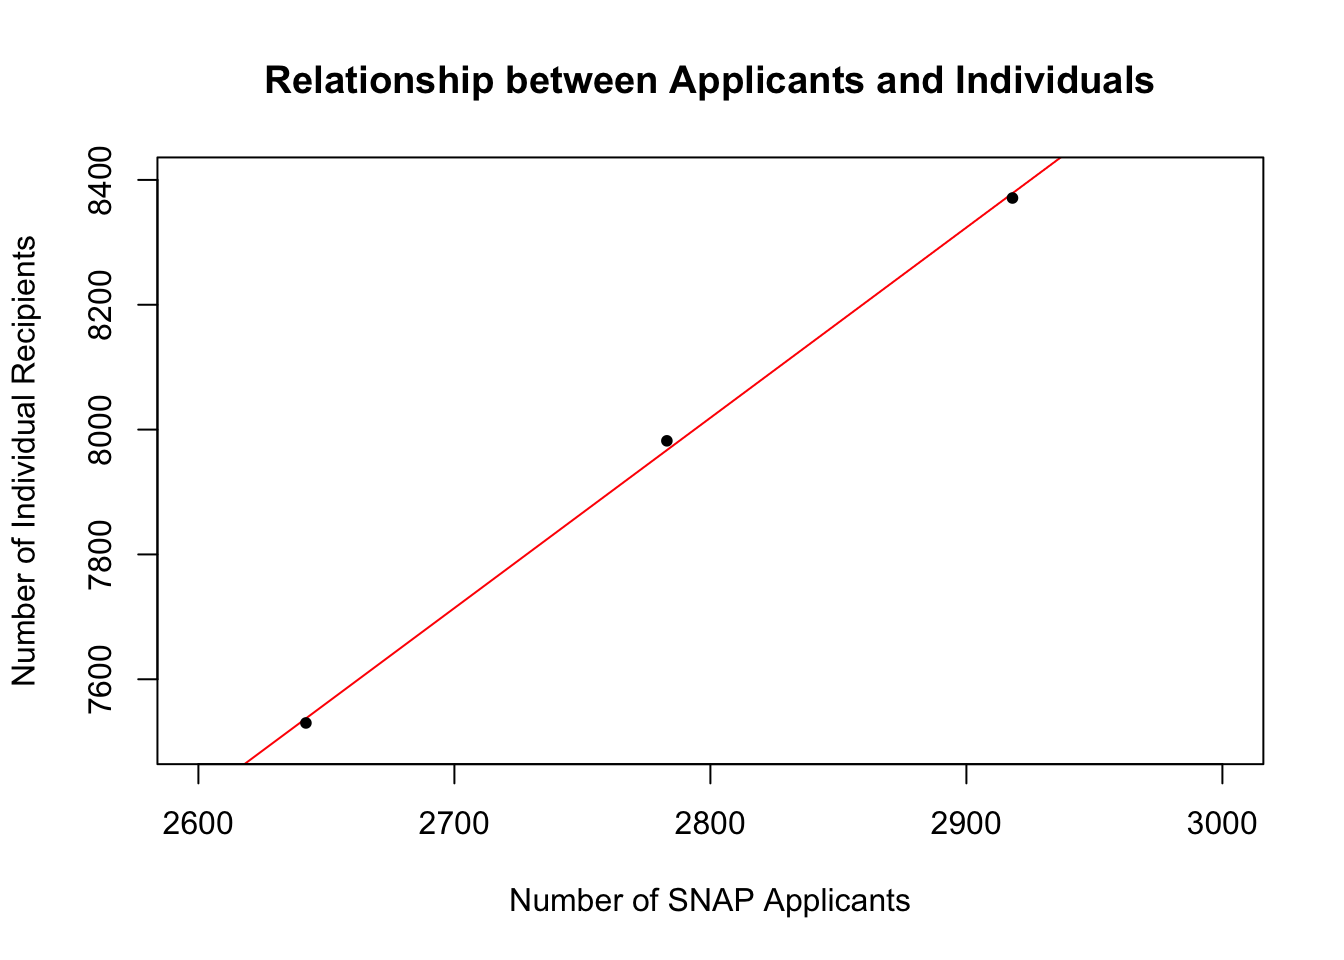
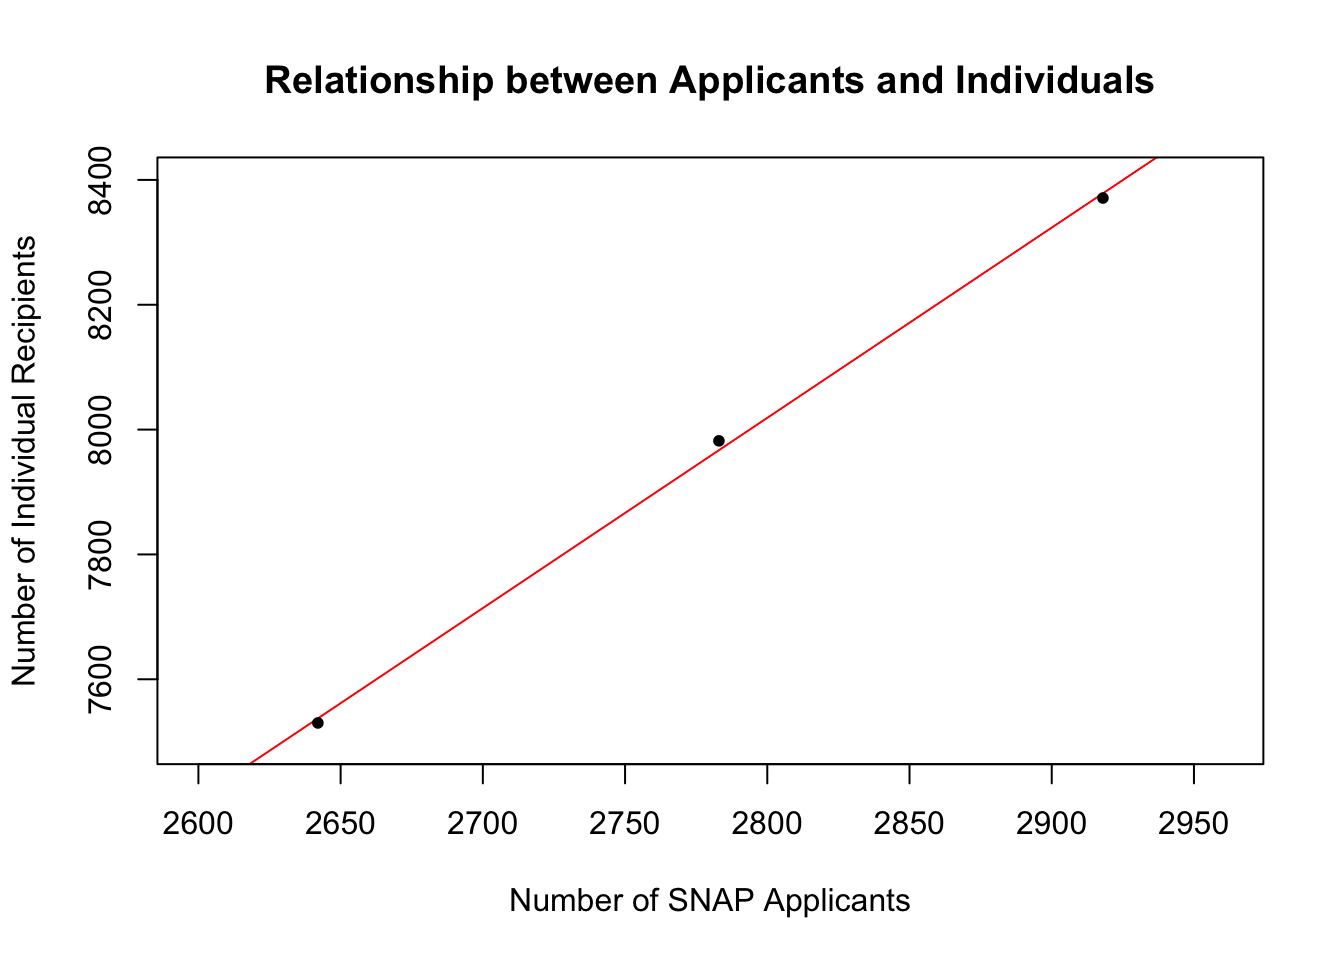
1

diff --git a/SNAP_Arlington.html b/SNAP_Arlington.html
@@ -398,17 +398,17 @@ plot &lt;- ggplot(data=tweet, aes(x=reorder(term, freq), y=freq)) +
 <h4>
 <div class="newspaper1">
 <p style="text-align: justify;">
-As you can see, the public’s sentiment of food stamps is saturated with words like illegal, fraud, fears, scam, criminal, stole, millions, etc. Indeed, SNAP is an expensive program that costs the United States government billions of dollars every year. Just in 2015, we spent <a href="http://www.cbpp.org/research/policy-basics-introduction-to-the-supplemental-nutrition-assistance-program-snap">$75 billion on SNAP</a>. However, according to the Center on Budget and Policy Priorities, an “overwhelming majority of non-disabled, working-age households that start receiving SNAP do not stop working.” In fact, a whopping 96% of households that held jobs before receiving SNAP benefits continued working after receiving SNAPS the following year, which is a comparable figure to the <a href="https://www.bls.gov/news.release/pdf/jolts.pdf">national labor turnover rate</a> that spans 1.2% to 7% <br><br> So, here is my question to you. Do you think it would be societally irresponsible to ignore those hardworking families that simply cannot meet their ends meet, despite their willingness to work?
+As you can see, the public’s sentiment of food stamps is saturated with words like illegal, fraud, fears, criminal, scam, millions, etc. Indeed, SNAP is an expensive program that costs the United States government billions of dollars every year. Just in 2015, we spent <a href="http://www.cbpp.org/research/policy-basics-introduction-to-the-supplemental-nutrition-assistance-program-snap">$75 billion on SNAP</a>. However, according to the Center on Budget and Policy Priorities, an “overwhelming majority of non-disabled, working-age households that start receiving SNAP do not stop working.” In fact, a whopping 96% of households that held jobs before receiving SNAP benefits continued working after receiving SNAP the following year, which is a comparable figure to the <a href="https://www.bls.gov/news.release/pdf/jolts.pdf">national labor turnover rate</a> that spans 1.2% to 7%
 </p>
 </div>
 <p><br><br><br></p>
 <h4>
 <div class="newspaper1">
 <p style="text-align: justify;">
-<strong>Analysis</strong>: A recent job interview I had with the Arlington County’s Department of Human Services inspired me to write this blog. The position’s role entailed analyzing public data in the Quality and Administration Division (Yup, would it not be an ideal job for me?). So, I studied their program management tool by analyzing the <a href="https://arlingtonva.s3.dualstack.us-east-1.amazonaws.com/wp-content/uploads/sites/6/2017/01/EID-SNAP-FY-2016-PMP.pdf">SNAP performance plan report</a>. <br><br> Several parts that struck out in the report. First, the number of applications and beneficiaries have been declining over the past three years. A person must submit SNAP application before becoming a recipient, so I wanted to see if there was any relationship between the declining number of applications and individuals receiving SNAP benefits.
+<strong>Analysis</strong>: A recent job interview I had with the Arlington County’s Department of Human Services inspired me to write this blog. The position’s role entailed analyzing public data in the Quality and Administration Division (Yup, would it not be an ideal job for me?). So, I studied their program management tool by analyzing the <a href="https://arlingtonva.s3.dualstack.us-east-1.amazonaws.com/wp-content/uploads/sites/6/2017/01/EID-SNAP-FY-2016-PMP.pdf">SNAP performance plan report</a>.
 </p>
 </div>
-<p><br></p>
+<p><br><br><br></p>
 </center>
 <h4>
 <div class="code1">
@@ -463,6 +463,7 @@ kable(snap.cs.table)</code></pre>
 <h4>
 <div class="newspaper1">
 <p style="text-align: justify;">
+Several parts that struck out in the report. First, the number of applications and beneficiaries have been declining over the past three years. A person must submit SNAP application before becoming a recipient, so I wanted to see if there was any relationship between the declining number of applications and individuals receiving SNAP benefits.
 </p>
 </div>
 <p><br><br><br></p>
@@ -480,7 +481,7 @@ kable(snap.cs.table)</code></pre>
 ## sample estimates:
 ##       cor 
 ## 0.9995296
-plot(snap.cs.table.t$&#39;Applications&#39;, snap.cs.table.t$&#39;Individual.Recipients&#39;, xlim=c(2600, 3000), ylim=c(7500, 8400),
+plot(snap.cs.table.t$&#39;Applications&#39;, snap.cs.table.t$&#39;Individual.Recipients&#39;, xlim=c(2600, 2960), ylim=c(7500, 8400),
      pch = 20, cex = 1, col = &quot;black&quot;,
      main = &quot;Relationship between Applicants and Individuals&quot;,
      ylab = &quot;Number of Individual Recipients&quot;,
@@ -490,6 +491,14 @@ plot(snap.cs.table.t$&#39;Applications&#39;, snap.cs.table.t$&#39;Individual.Rec
 </p>
 </div>
 <center>
+<p><br><br><br></p>
+<h4>
+<div class="newspaper1">
+<p style="text-align: justify;">
+This is a classic case of a perfect correlationship. It is always very exciting to see textbook examples happening in the real world.
+</p>
+</div>
+<p><br><br><br></p>
 <br><br><br><br><br><br><br><br><br> <iframe width="100%" height="400" src="attach/SNAP_map_timeline.html"></iframe>
 <center>
 <pre><code>You can embed the map by copying and pasting this code in your HTML script:
